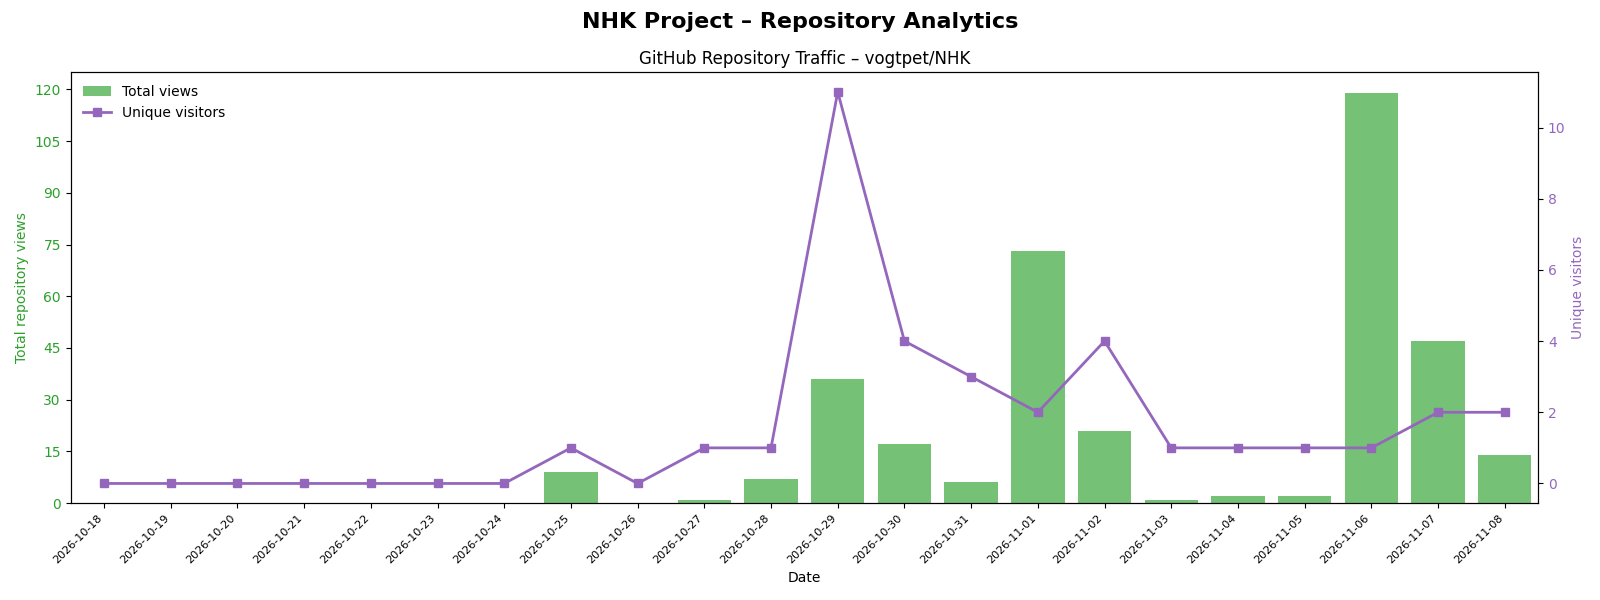
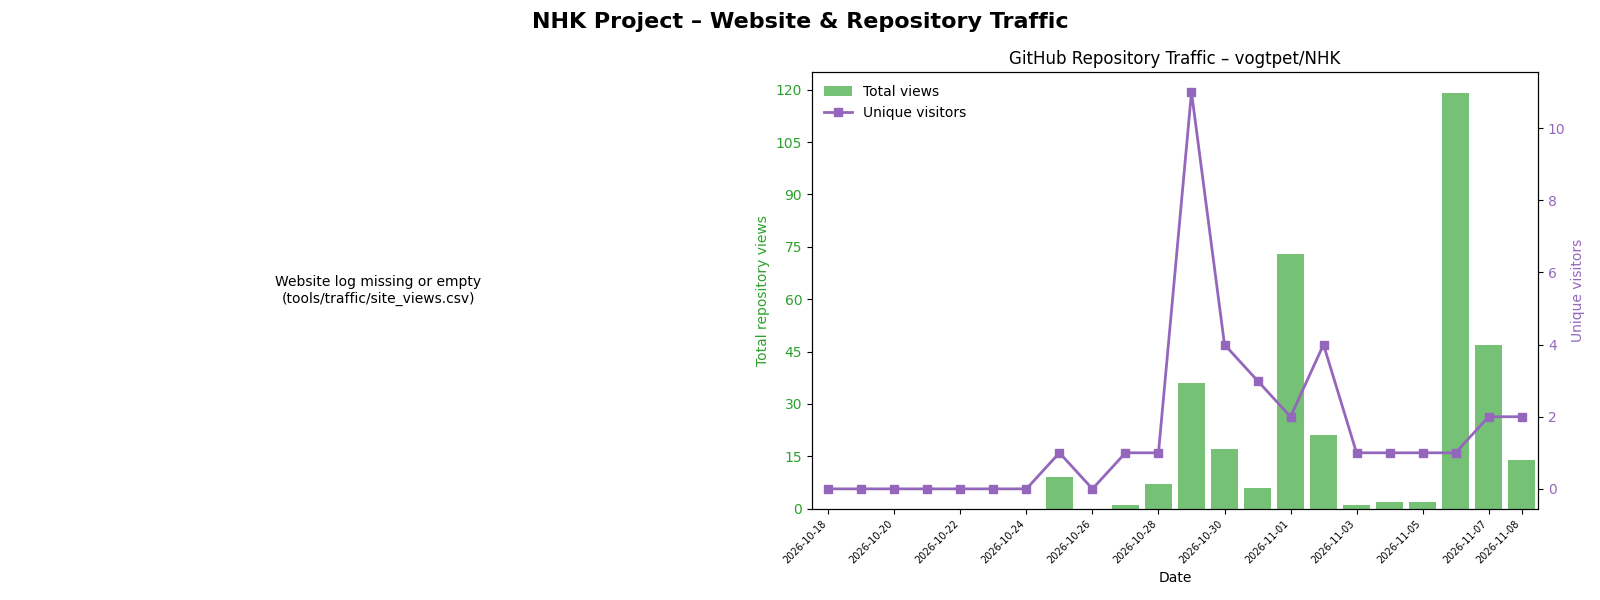
Add GoatCounter website analytics and two-panel dashboard
- Add the cookie-free GoatCounter script to the chapter and hub templates,
  the reader homepage, Impressum, Datenschutz and Autoren pages
- Disclose GoatCounter in the Datenschutz (section 3): no cookies, no stored
  IP addresses, transient in-memory session mapping, EU hosting, legitimate
  interest under Art. 6(1)(f) DSGVO
- Fetch the last 30 days of pageviews from the GoatCounter API in the daily
  workflow and write tools/traffic/site_views.csv
- Rework tools/plot_dashboard.py into a two-panel website + repository chart
- Rebuild all 40 chapter pages and refresh the sitemap lastmod

diff --git a/docs/datenschutz/index.html b/docs/datenschutz/index.html
@@ -27,9 +27,9 @@
   <main id="inhalt" class="prose">
     <h1>Datenschutzerklärung</h1>
     <p>Diese Website ist bewusst datensparsam gestaltet: Sie setzt <strong>keine Cookies</strong>,
-      verwendet <strong>keine Analyse- oder Werbetools</strong> und lädt <strong>keine externen
-      Schriftarten, Skripte oder Zähldienste</strong>. Nachfolgend informieren wir Sie gemäß
-      Art. 13 DSGVO über die dennoch stattfindende Verarbeitung.</p>
+      verwendet <strong>keine Werbetools</strong> und lädt <strong>keine externen Schriftarten</strong>.
+      Zur anonymen Reichweitenmessung wird GoatCounter eingesetzt (siehe Ziffer 3). Nachfolgend
+      informieren wir Sie gemäß Art. 13 DSGVO über die stattfindende Verarbeitung.</p>
 
     <h2>1. Verantwortlicher</h2>
     <p>
@@ -61,10 +61,23 @@
       der EU-Kommission. Weitere Informationen enthält die
       <a href="https://docs.github.com/de/site-policy/privacy-policies/github-privacy-statement">Datenschutzerklärung von GitHub</a>.</p>
 
-    <h2>3. Keine Cookies, kein Tracking, keine Analyse</h2>
-    <p>Diese Website setzt keine Cookies und speichert keine Informationen auf Ihrem Endgerät.
-      Es werden keine Besucherzähler, Reichweitenmessungen, Werbenetzwerke oder Social-Media-Plugins
-      eingesetzt. Ein früher vorhandener externer Besucherzähler wurde entfernt.</p>
+    <h2>3. Cookies, Reichweitenmessung und Analyse</h2>
+    <p><strong>Cookies:</strong> Diese Website setzt keine Cookies und speichert keine Informationen
+      auf Ihrem Endgerät. Es werden keine Werbenetzwerke oder Social-Media-Plugins eingesetzt.</p>
+    <p><strong>GoatCounter:</strong> Zur anonymen Reichweitenmessung setzen wir GoatCounter ein,
+      einen datenschutzfreundlichen Analysedienst. GoatCounter setzt keine Cookies und speichert
+      keine IP-Adressen, keine vollständigen User-Agent-Strings und keine Tracker-IDs. Erfasst
+      werden aggregierte Angaben zu Seitenaufrufen, Referrern und Land. Zur Erkennung wiederholter
+      Besuche wird eine Zuordnung aus Website, IP-Adresse und User-Agent für maximal acht Stunden
+      im Arbeitsspeicher gehalten und nicht in der Datenbank gespeichert. Die Daten werden auf
+      Servern der Hetzner Online GmbH in Finnland und Deutschland verarbeitet. Anbieter:
+      GoatCounter, Martin Tournoij, Irland. Rechtsgrundlage ist unser berechtigtes Interesse an
+      einer anonymen Reichweitenmessung gemäß Art. 6 Abs. 1 lit. f DSGVO. Weitere Informationen:
+      <a href="https://www.goatcounter.com/privacy">https://www.goatcounter.com/privacy</a>.
+      Da keine Cookies gesetzt und keine personenbezogenen Daten dauerhaft gespeichert werden,
+      ist nach unserer Einschätzung keine Einwilligung erforderlich.</p>
+    <p>Der GoatCounter-Messcode wird von <code>gc.zgo.at</code> geladen und sendet die
+      Seitenaufrufe an <code>vogtpet-nhk.goatcounter.com</code>.</p>
 
     <h2>4. PDF- und eBook-Download</h2>
     <p>Die Buchdateien (PDF und EPUB) werden direkt von GitHub Pages ausgeliefert. Beim Herunterladen
@@ -130,5 +143,6 @@
   <a href="https://github.com/vogtpet/NHK">Quellcode</a> · Lizenz
   <a href="https://creativecommons.org/licenses/by/4.0/">CC BY 4.0</a> · Stand: November 2026</p>
 </footer>
+<script data-goatcounter="https://vogtpet-nhk.goatcounter.com/count" async src="https://gc.zgo.at/count.js"></script>
 </body>
 </html>

diff --git a/docs/wissen/index.html b/docs/wissen/index.html
@@ -523,5 +523,6 @@
   <p><a href="../docs/NHK2026.pdf">PDF</a> · <a href="../docs/NHK2026.epub">eBook</a> ·
   <a href="https://creativecommons.org/licenses/by/4.0/">CC BY 4.0</a> · Stand: Oktober 2026</p>
 </footer>
+<script data-goatcounter="https://vogtpet-nhk.goatcounter.com/count" async src="https://gc.zgo.at/count.js"></script>
 </body>
 </html>

diff --git a/docs/autoren/index.html b/docs/autoren/index.html
@@ -117,5 +117,6 @@
   <a href="https://github.com/vogtpet/NHK">Quellcode</a> · Lizenz
   <a href="https://creativecommons.org/licenses/by/4.0/">CC BY 4.0</a> · Stand: November 2026</p>
 </footer>
+<script data-goatcounter="https://vogtpet-nhk.goatcounter.com/count" async src="https://gc.zgo.at/count.js"></script>
 </body>
 </html>

diff --git a/docs/impressum/index.html b/docs/impressum/index.html
@@ -99,5 +99,6 @@
   <a href="https://github.com/vogtpet/NHK">Quellcode</a> · Lizenz
   <a href="https://creativecommons.org/licenses/by/4.0/">CC BY 4.0</a> · Stand: November 2026</p>
 </footer>
+<script data-goatcounter="https://vogtpet-nhk.goatcounter.com/count" async src="https://gc.zgo.at/count.js"></script>
 </body>
 </html>

diff --git a/docs/abmagerung/index.html b/docs/abmagerung/index.html
@@ -136,5 +136,6 @@
   <a href="https://github.com/vogtpet/NHK">Quellcode</a> · <a href="https://creativecommons.org/licenses/by/4.0/">CC BY 4.0</a> ·
   Stand: Oktober 2026</p>
 </footer>
+<script data-goatcounter="https://vogtpet-nhk.goatcounter.com/count" async src="https://gc.zgo.at/count.js"></script>
 </body>
 </html>

diff --git a/docs/abzess/index.html b/docs/abzess/index.html
@@ -143,5 +143,6 @@
   <a href="https://github.com/vogtpet/NHK">Quellcode</a> · <a href="https://creativecommons.org/licenses/by/4.0/">CC BY 4.0</a> ·
   Stand: Oktober 2026</p>
 </footer>
+<script data-goatcounter="https://vogtpet-nhk.goatcounter.com/count" async src="https://gc.zgo.at/count.js"></script>
 </body>
 </html>

diff --git a/docs/akne/index.html b/docs/akne/index.html
@@ -158,5 +158,6 @@
   <a href="https://github.com/vogtpet/NHK">Quellcode</a> · <a href="https://creativecommons.org/licenses/by/4.0/">CC BY 4.0</a> ·
   Stand: Oktober 2026</p>
 </footer>
+<script data-goatcounter="https://vogtpet-nhk.goatcounter.com/count" async src="https://gc.zgo.at/count.js"></script>
 </body>
 </html>

diff --git a/docs/akupunkt-massage/index.html b/docs/akupunkt-massage/index.html
@@ -141,5 +141,6 @@
   <a href="https://github.com/vogtpet/NHK">Quellcode</a> · <a href="https://creativecommons.org/licenses/by/4.0/">CC BY 4.0</a> ·
   Stand: Oktober 2026</p>
 </footer>
+<script data-goatcounter="https://vogtpet-nhk.goatcounter.com/count" async src="https://gc.zgo.at/count.js"></script>
 </body>
 </html>

diff --git a/docs/allergie/index.html b/docs/allergie/index.html
@@ -254,5 +254,6 @@
   <a href="https://github.com/vogtpet/NHK">Quellcode</a> · <a href="https://creativecommons.org/licenses/by/4.0/">CC BY 4.0</a> ·
   Stand: Oktober 2026</p>
 </footer>
+<script data-goatcounter="https://vogtpet-nhk.goatcounter.com/count" async src="https://gc.zgo.at/count.js"></script>
 </body>
 </html>

diff --git a/docs/alter/index.html b/docs/alter/index.html
@@ -290,5 +290,6 @@
   <a href="https://github.com/vogtpet/NHK">Quellcode</a> · <a href="https://creativecommons.org/licenses/by/4.0/">CC BY 4.0</a> ·
   Stand: Oktober 2026</p>
 </footer>
+<script data-goatcounter="https://vogtpet-nhk.goatcounter.com/count" async src="https://gc.zgo.at/count.js"></script>
 </body>
 </html>

diff --git a/docs/alzheimer/index.html b/docs/alzheimer/index.html
@@ -164,5 +164,6 @@
   <a href="https://github.com/vogtpet/NHK">Quellcode</a> · <a href="https://creativecommons.org/licenses/by/4.0/">CC BY 4.0</a> ·
   Stand: Oktober 2026</p>
 </footer>
+<script data-goatcounter="https://vogtpet-nhk.goatcounter.com/count" async src="https://gc.zgo.at/count.js"></script>
 </body>
 </html>

diff --git a/docs/anaemie/index.html b/docs/anaemie/index.html
@@ -138,5 +138,6 @@
   <a href="https://github.com/vogtpet/NHK">Quellcode</a> · <a href="https://creativecommons.org/licenses/by/4.0/">CC BY 4.0</a> ·
   Stand: Oktober 2026</p>
 </footer>
+<script data-goatcounter="https://vogtpet-nhk.goatcounter.com/count" async src="https://gc.zgo.at/count.js"></script>
 </body>
 </html>
